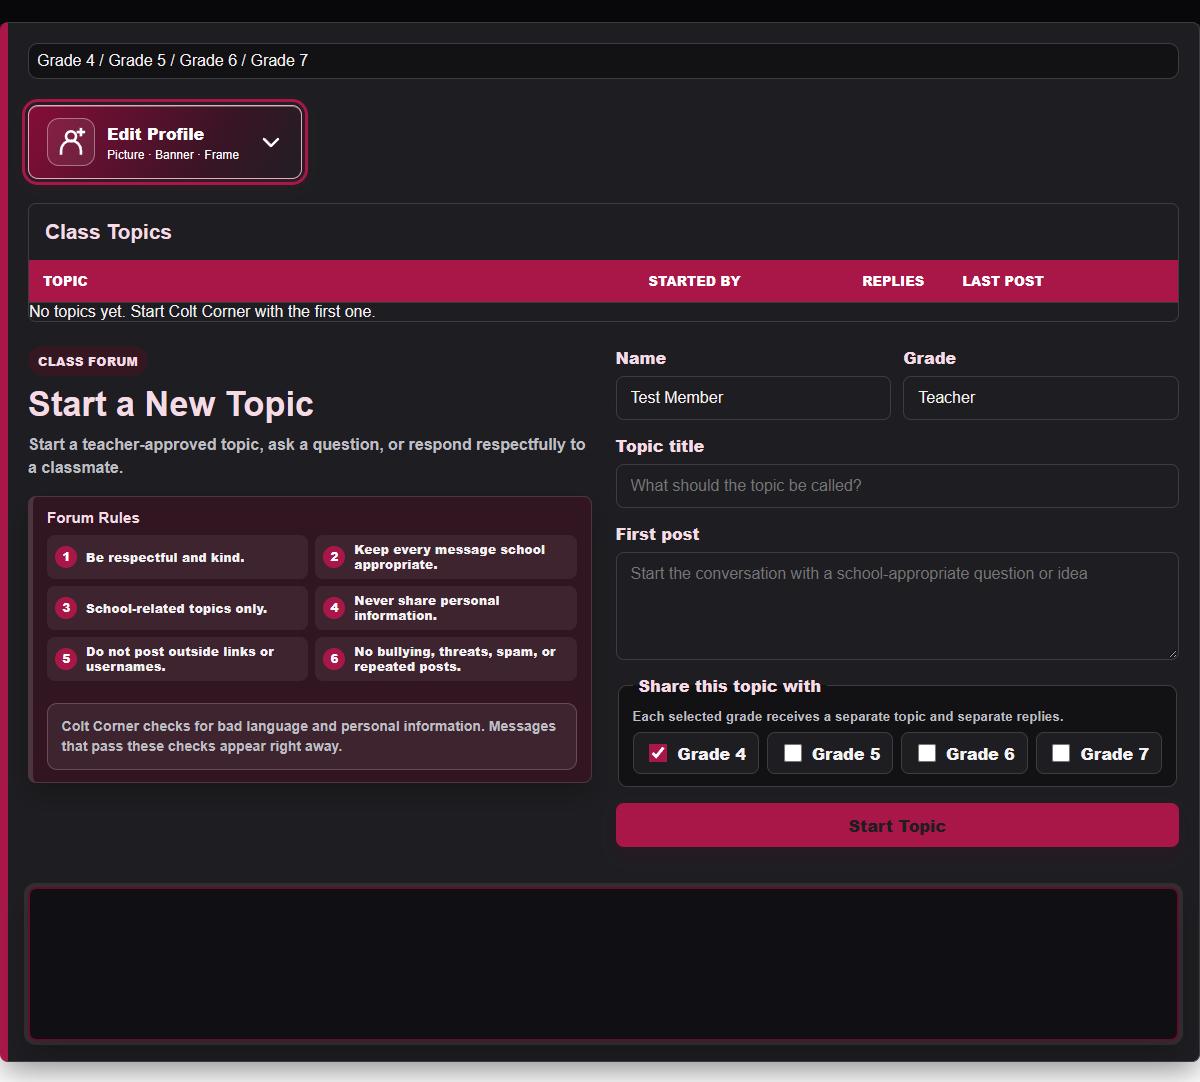
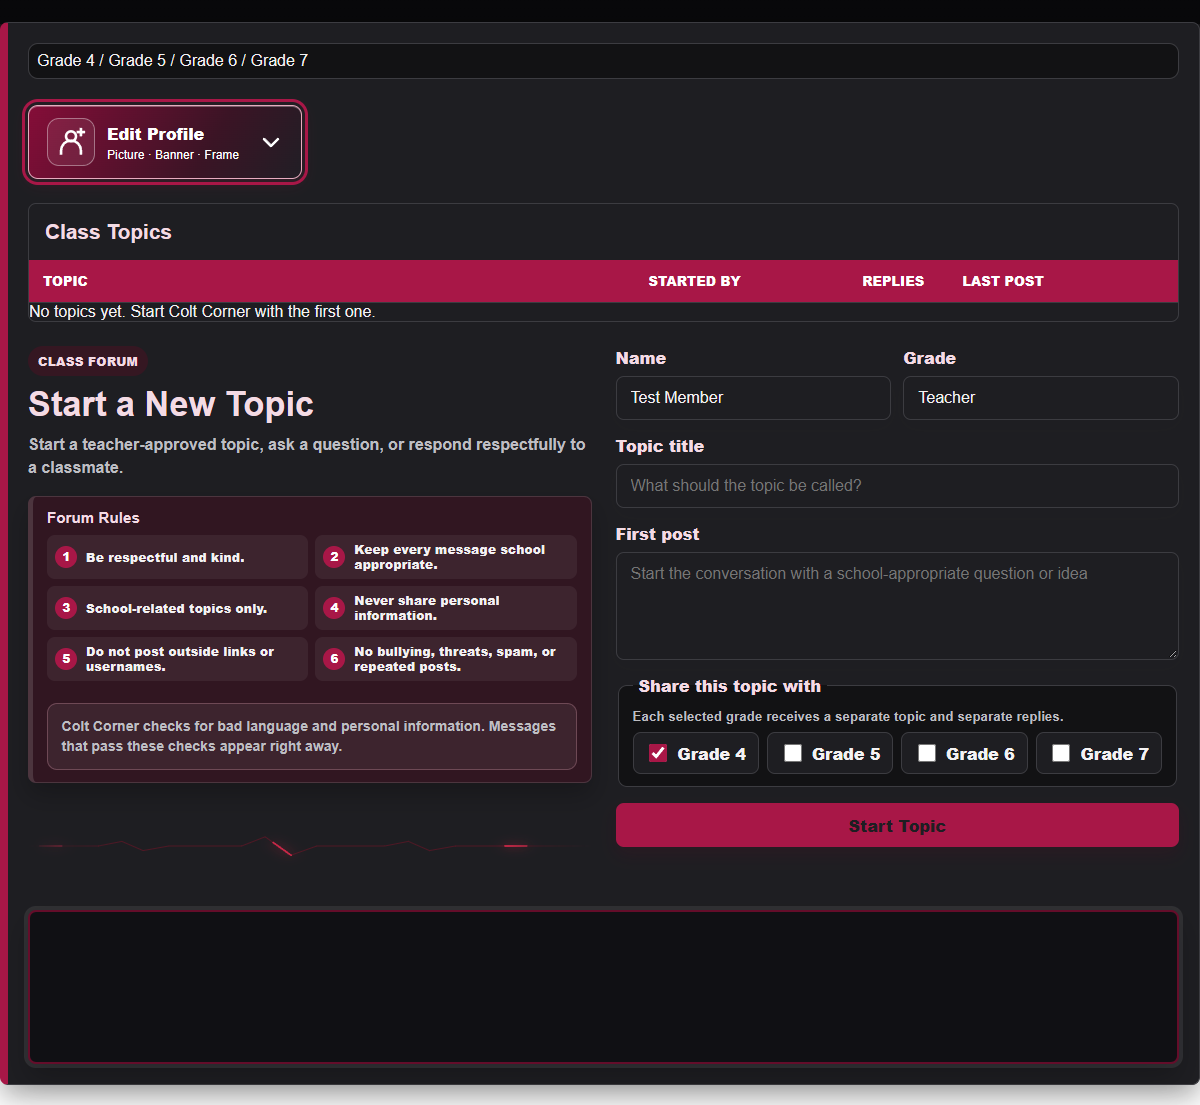
Add 16 profile frames and Colt Corner lightning accent

Changed region(s): [[0.0, 0.0305, 0.9867, 0.732], [0.0308, 0.61, 0.9867, 0.8235]]

diff --git a/app.js b/app.js
@@ -1711,10 +1711,28 @@ const PROFILE_FRAMES = [
   ["clockwork", "Clockwork Brass", "Antique gears & copper"],
   ["moon-garden", "Moonlit Garden", "Silver moon & violet leaves"],
   ["silver-rope", "Silver Rope", "Woven silver & charcoal"],
-  ["emerald-jewel", "Emerald Jewel", "Green gemstones & gold trim"]
+  ["emerald-jewel", "Emerald Jewel", "Green gemstones & gold trim"],
+  ["anime-crest", "Anime Ninja", "Crimson crest & manga sparks"],
+  ["faith-glass", "Light of Faith", "Stained glass & golden cross"],
+  ["solar-crown", "Solar Crown", "Golden sun rays"],
+  ["lunar-orbit", "Lunar Orbit", "Saturn rings & distant stars"],
+  ["ice-bloom", "Ice Bloom", "Frost blue snowflakes"],
+  ["honeycomb", "Honeycomb", "Amber hexagons & honey"],
+  ["music-mix", "Music Mix", "Violet notes & rhythm"],
+  ["art-splash", "Art Splash", "Bright paint splashes"],
+  ["dragon-scale", "Dragon Scale", "Ruby scales & gold"],
+  ["butterfly", "Butterfly Garden", "Lavender wings"],
+  ["rainbow-arc", "Rainbow Arc", "Colorful skies & clouds"],
+  ["ocean-anchor", "Harbor Blue", "Navy rope & silver anchor"],
+  ["mardi-gras", "Mardi Gras", "Purple, green & gold"],
+  ["robot-tech", "Robot Tech", "Steel bolts & electric blue"],
+  ["book-club", "Book Club", "Golden pages & burgundy"],
+  ["sport-star", "Sport Star", "Stadium stripes & trophy"]
 ];
 function normalizeProfileFrame(value) { return PROFILE_FRAMES.some(([id]) => id === value) ? value : "none"; }
 function profileFrameArt(frame) {
+  const newArt = newProfileFrameArt(frame);
+  if (newArt) return newArt;
   const pearls = Array.from({ length: 12 }, (_, i) => {
     const angle = i * Math.PI / 6;
     return `<circle cx="${50 + 44 * Math.cos(angle)}" cy="${50 + 44 * Math.sin(angle)}" r="3" fill="#fff7e6" stroke="#68b9be" stroke-width=".8"/>`;
@@ -1742,6 +1760,30 @@ function profileFrameArt(frame) {
     pumpkin: '<path d="M50 83v-7l5-3" fill="none" stroke="#9be36c" stroke-width="3"/><ellipse cx="50" cy="90" rx="15" ry="10" fill="#ff9d32" stroke="#bc4e15"/><path d="M46 81c-5 7-5 12 0 18m8-18c5 7 5 12 0 18" fill="none" stroke="#dc691b"/><path d="m43 88 3-3 2 3m5 0 2-3 3 3m-12 5q5 4 10-1" fill="none" stroke="#5b2c19" stroke-width="2"/><path d="M7 32q-5-13 8-17-2 12-8 17M89 27q14-9 5-17-9 5-5 17" fill="#a8ca63"/>'
   };
   return art[frame] ? `<svg class="profile-frame-art" viewBox="0 0 100 100" aria-hidden="true">${art[frame]}</svg>` : "";
+}
+function newProfileFrameArt(frame) {
+  const designs = {
+    'anime-crest': ['#331d43','#ff6070','<path d="m40 6 10-5 10 5-3 9H43Z" fill="#cccde5"/><path d="m45 8 5-4 5 4-5 4Z" fill="#c52249"/><path d="m7 30 8-12-2 14 7-1-13 13 3-12Z" fill="#ffe8a0"/>'],
+    'faith-glass': ['#173e79','#f8d47b','<path d="M47 1h6v6h6v5h-6v11h-6V12h-6V7h6Z" fill="#ffe8a3" stroke="#ac7b28"/><path d="M5 42h9v16H5ZM86 42h9v16h-9Z" fill="#da5979"/><path d="m41 93 9-11 9 11-9 5Z" fill="#67d0dc"/>'],
+    'solar-crown': ['#a7521c','#ffe69a','<path d="m50 0 4 9h-8ZM5 30l10 2-5 8ZM95 30l-10 2 5 8ZM14 81l9-5 1 10ZM86 81l-9-5-1 10Z" fill="#ffe69a"/>'],
+    'lunar-orbit': ['#342b68','#c0baff','<ellipse cx="50" cy="9" rx="15" ry="4" fill="none" stroke="#ffe4a0" transform="rotate(-18 50 9)"/><circle cx="50" cy="9" r="7" fill="#b6a0ef"/><path d="m10 65 2 5 5 2-5 2-2 5-2-5-5-2 5-2Z" fill="#fff"/>'],
+    'ice-bloom': ['#206789','#bcf8ff','<path d="M50 0v20M41 5l18 10M41 15 59 5M45 1l5 4 5-4M45 19l5-4 5 4" fill="none" stroke="#e5ffff" stroke-width="2"/>'],
+    'honeycomb': ['#74461b','#ffd45d','<g fill="#f9af32" stroke="#ffe6a1"><path d="m44 1 6 3v7l-6 3-6-3V4ZM57 1l6 3v7l-6 3-6-3V4ZM8 42l6 3v7l-6 3-6-3v-7ZM92 42l6 3v7l-6 3-6-3v-7Z"/></g>'],
+    'music-mix': ['#56276d','#f4a5ed','<g fill="#ffe2fd"><path d="M43 4v13h3V8l10-3v9h3V0Z"/><ellipse cx="41" cy="17" rx="5" ry="3"/><ellipse cx="54" cy="14" rx="5" ry="3"/></g><path d="M39 92v5m6-9v10m6-14v14m6-10v10m6-6v5" stroke="#92f1e1" stroke-width="3"/>'],
+    'art-splash': ['#47356e','#ffe487','<g stroke="#fff" stroke-width=".7"><circle cx="12" cy="29" r="7" fill="#f477a9"/><circle cx="81" cy="16" r="7" fill="#6ad9fa"/><circle cx="83" cy="82" r="7" fill="#ffe16b"/><circle cx="28" cy="91" r="6" fill="#70dfa3"/></g>'],
+    'dragon-scale': ['#661f36','#efbe74','<path d="m36 8 7-7 7 7 7-7 7 7-7 8-7-5-7 5ZM4 41l10 7-10 8ZM96 41l-10 7 10 8Z" fill="#db6658" stroke="#ffd091"/>'],
+    'butterfly': ['#694778','#efc1fb','<g fill="#d999ee" stroke="#ffe4fc"><path d="M50 10C25-10 35 27 50 15 65 27 75-10 50 10Z"/><path d="M50 9v12" stroke="#fff" stroke-width="2"/></g>'],
+    'rainbow-arc': ['#5787b2','#e5f4ff','<path d="M18 20Q50-9 82 20" fill="none" stroke="#ff8cab" stroke-width="6"/><path d="M20 24Q50-3 80 24" fill="none" stroke="#ffe18b" stroke-width="4"/><path d="M23 26Q50 3 77 26" fill="none" stroke="#9be4c7" stroke-width="3"/><g fill="#fff"><ellipse cx="17" cy="24" rx="11" ry="6"/><ellipse cx="83" cy="24" rx="11" ry="6"/></g>'],
+    'ocean-anchor': ['#173950','#b7dce7','<g fill="none" stroke="#e2f6ff" stroke-width="2.5"><circle cx="50" cy="81" r="3"/><path d="M50 84v14m-7-10h14m-18 1q0 9 11 9t11-9m-22 0-2 5m24-5 2 5"/></g>'],
+    'mardi-gras': ['#553173','#eecb65','<path d="M35 6q15-8 30 0l-3 12-12-5-12 5Z" fill="#339765" stroke="#ffdf82"/><path d="m39 8 7 2-5 3Zm22 0-7 2 5 3Z" fill="#281735"/><circle cx="8" cy="50" r="5" fill="#edc85a"/><circle cx="92" cy="50" r="5" fill="#edc85a"/>'],
+    'robot-tech': ['#304653','#86e6fa','<g fill="#afc1cb" stroke="#23343f"><rect x="40" y="1" width="20" height="14" rx="3"/><rect x="1" y="43" width="12" height="14" rx="3"/><rect x="87" y="43" width="12" height="14" rx="3"/></g><path d="M44 7h4m4 0h4" stroke="#027d9c" stroke-width="3"/>'],
+    'book-club': ['#6a283d','#e2c083','<path d="M34 84q8-4 16 1 8-5 16-1v13q-8-4-16 0-8-4-16 0Z" fill="#fff1ce" stroke="#aa773e"/><path d="M50 85v12m-12-9 8 1m8 0 8-1m-24 4 8 1m8 0 8-1" stroke="#aa773e"/>'],
+    'sport-star': ['#235744','#f4db87','<path d="M43 1h14v7q0 7-7 7t-7-7Zm4 14h6v5h-6Zm-5 5h16v3H42Z" fill="#ffdc78"/><path d="M43 4h-6q0 8 8 8m12-8h6q0 8-8 8" fill="none" stroke="#ffdc78" stroke-width="2"/>']
+  };
+  const design = designs[frame];
+  if (!design) return '';
+  const [base, trim, motif] = design;
+  return `<svg class="profile-frame-art" viewBox="0 0 100 100" aria-hidden="true"><circle cx="50" cy="50" r="43" fill="none" stroke="${base}" stroke-width="10"/><circle cx="50" cy="50" r="48" fill="none" stroke="${trim}" stroke-width="1.5"/><circle cx="50" cy="50" r="38" fill="none" stroke="${trim}" stroke-width="1"/>${motif}</svg>`;
 }
 function renderForumAvatar(name, avatarUrl, extraClass = "", profileFrame = "none") {
   const safeUrl = normalizeProfileAvatarUrl(avatarUrl);
@@ -2938,6 +2980,14 @@ function renderColtCorner() {
             Colt Corner checks for bad language and personal information. Messages that pass these checks appear right away.
           </p>
         </section>
+        <div class="forum-energy" aria-hidden="true">
+          <span class="home-header-energy">
+            <svg viewBox="0 0 240 30" preserveAspectRatio="none" focusable="false">
+              <path class="home-header-energy-base" d="M0 15 L30 15 L40 12 L49 18 L60 15 L91 15 L101 9 L112 21 L123 15 L152 15 L162 12 L171 18 L182 15 L240 15"></path>
+              <path class="home-header-energy-pulse" d="M0 15 L30 15 L40 12 L49 18 L60 15 L91 15 L101 9 L112 21 L123 15 L152 15 L162 12 L171 18 L182 15 L240 15"></path>
+            </svg>
+          </span>
+        </div>
       </div>
       <form id="threadForm" class="thread-form">
         <div class="field">

diff --git a/work/verify-profile-collection.js b/work/verify-profile-collection.js
@@ -1,0 +1,20 @@
+const fs=require('fs'),vm=require('vm'),assert=require('assert/strict');
+const {chromium}=require('playwright');
+(async()=>{
+ const app=fs.readFileSync('app.js','utf8'),server=fs.readFileSync('server.js','utf8');
+ const ctx=vm.createContext({normalizeProfileAvatarUrl:()=>'',escapeHtml:x=>x,forumInitials:()=> 'CC'});
+ vm.runInContext(app.slice(app.indexOf('const PROFILE_FRAMES ='),app.indexOf('function renderForumAuthor('))+';globalThis.frames=PROFILE_FRAMES;',ctx);
+ assert.equal(ctx.frames.length,32);assert.equal(new Set(ctx.frames.map(f=>f[0])).size,32);
+ const backend=vm.createContext({});
+ vm.runInContext(server.slice(server.indexOf('const profileFrameIds ='),server.indexOf('const profileBannerIds ='))+server.split('\n').filter(l=>l.includes('profileFrameIds.add(id)')).join('\n')+';function clean(value){return profileFrameIds.has(value)?value:"none";}',backend);
+ for(const [id] of ctx.frames){assert.equal(backend.clean(id),id);assert.equal(ctx.normalizeProfileFrame(id),id);if(id!=='none')assert(ctx.profileFrameArt(id).includes('<svg'));}
+ const browser=await chromium.launch({executablePath:'C:/Program Files (x86)/Google/Chrome/Application/chrome.exe',headless:true});
+ try{
+ const page=await browser.newPage({viewport:{width:1000,height:700}});
+ await page.setContent('<style>'+fs.readFileSync('styles.css','utf8').replace(/^\uFEFF/,'')+'body{padding:24px}.gallery{display:grid;grid-template-columns:repeat(4,1fr);gap:24px}.gallery article{text-align:center;padding:14px}</style><body data-theme="night"><div class="gallery">'+ctx.frames.slice(16).map(([id,name])=>'<article>'+ctx.renderForumAvatar('Test','','',id)+'<h3>'+name+'</h3></article>').join('')+'</div></body>');
+ assert.equal(await page.locator('.profile-frame-art').count(),16);
+ assert.equal(await page.locator('parsererror').count(),0);
+ await page.screenshot({path:'work/profile-collection-preview.png',fullPage:true});
+ console.log('32 frames total; all 16 new designs render and pass browser/server normalization.');
+ }finally{await browser.close();}
+})().catch(e=>{console.error(e);process.exitCode=1});

diff --git a/index.html b/index.html
@@ -11,7 +11,7 @@
   <link rel="icon" type="image/png" sizes="16x16" href="/favicon-16x16.png?v=20260727-shield2">
   <link rel="apple-touch-icon" sizes="180x180" href="/apple-touch-icon.png?v=20260727-shield2">
   <link rel="manifest" href="/site.webmanifest?v=20260901-single-client-v1">
-  <link rel="stylesheet" href="styles.css?v=20260927-profile-chevron-v53">
+  <link rel="stylesheet" href="styles.css?v=20260927-profile-collection-v54">
   <link rel="stylesheet" href="launchpad-scenes.css?v=20260926-christian-v44">
   <link rel="stylesheet" href="scene-frame-fit.css?v=20260920-fit-v3">
   <link rel="stylesheet" href="collectible-shelf.css?v=20260925-christian-v20">
@@ -26,7 +26,7 @@
   <script src="launchpad-scenes.js?v=20260926-christian-v41"></script>
   <script src="profile-banners.js?v=20260922-v5"></script>
 <script src="collectible-shelf.js?v=20260926-labubu-front-v40"></script>
-  <script src="app.js?v=20260927-profile-chevron-v77"></script>
+  <script src="app.js?v=20260927-profile-collection-v78"></script>
   <script src="colt-assistant.js?v=20260905-lazy-artwork-v2"></script>
   <script src="colt-radio.js?v=20260926-youradio-v25"></script>
   <script src="launchpad-colt.js?v=20260908-bathing-panel-v9"></script>

diff --git a/server.js b/server.js
@@ -46,6 +46,7 @@ function profileBannerForSession(session, db) {
     : normalizeApprovedStudents(db.approvedStudents).find(item => item.email === normalizeEmail(session.email))?.profileBanner);
 }
 ['silver-rope','emerald-jewel'].forEach(id => profileFrameIds.add(id));
+['anime-crest','faith-glass','solar-crown','lunar-orbit','ice-bloom','honeycomb','music-mix','art-splash','dragon-scale','butterfly','rainbow-arc','ocean-anchor','mardi-gras','robot-tech','book-club','sport-star'].forEach(id => profileFrameIds.add(id));
 ['titanium','walnut','ivory'].forEach(id => homeSceneFrameIds.add(id));
 function cleanProfileFrame(value) { return profileFrameIds.has(value) ? value : "none"; }
 function profileFrameForSession(session, db) {

diff --git a/styles.css b/styles.css
@@ -2191,6 +2191,10 @@ body[data-theme="night"] .request-spirit {
 .colt-corner-card .forum-rules-card {
   width: 100%;
 }
+.colt-corner-card > .colt-corner-heading { align-self: stretch; display: flex; flex-direction: column; }
+.colt-corner-card > .colt-corner-heading > .feature-kicker { align-self: flex-start; }
+.forum-energy { display: flex; align-items: center; justify-content: center; flex: 1; min-height: 80px; margin-top: 14px; }
+.forum-energy .home-header-energy { display: block; flex: 1; max-width: 100%; height: 46px; }
 
 .colt-corner-grade-tabs,
 .colt-corner-grade-scope {
